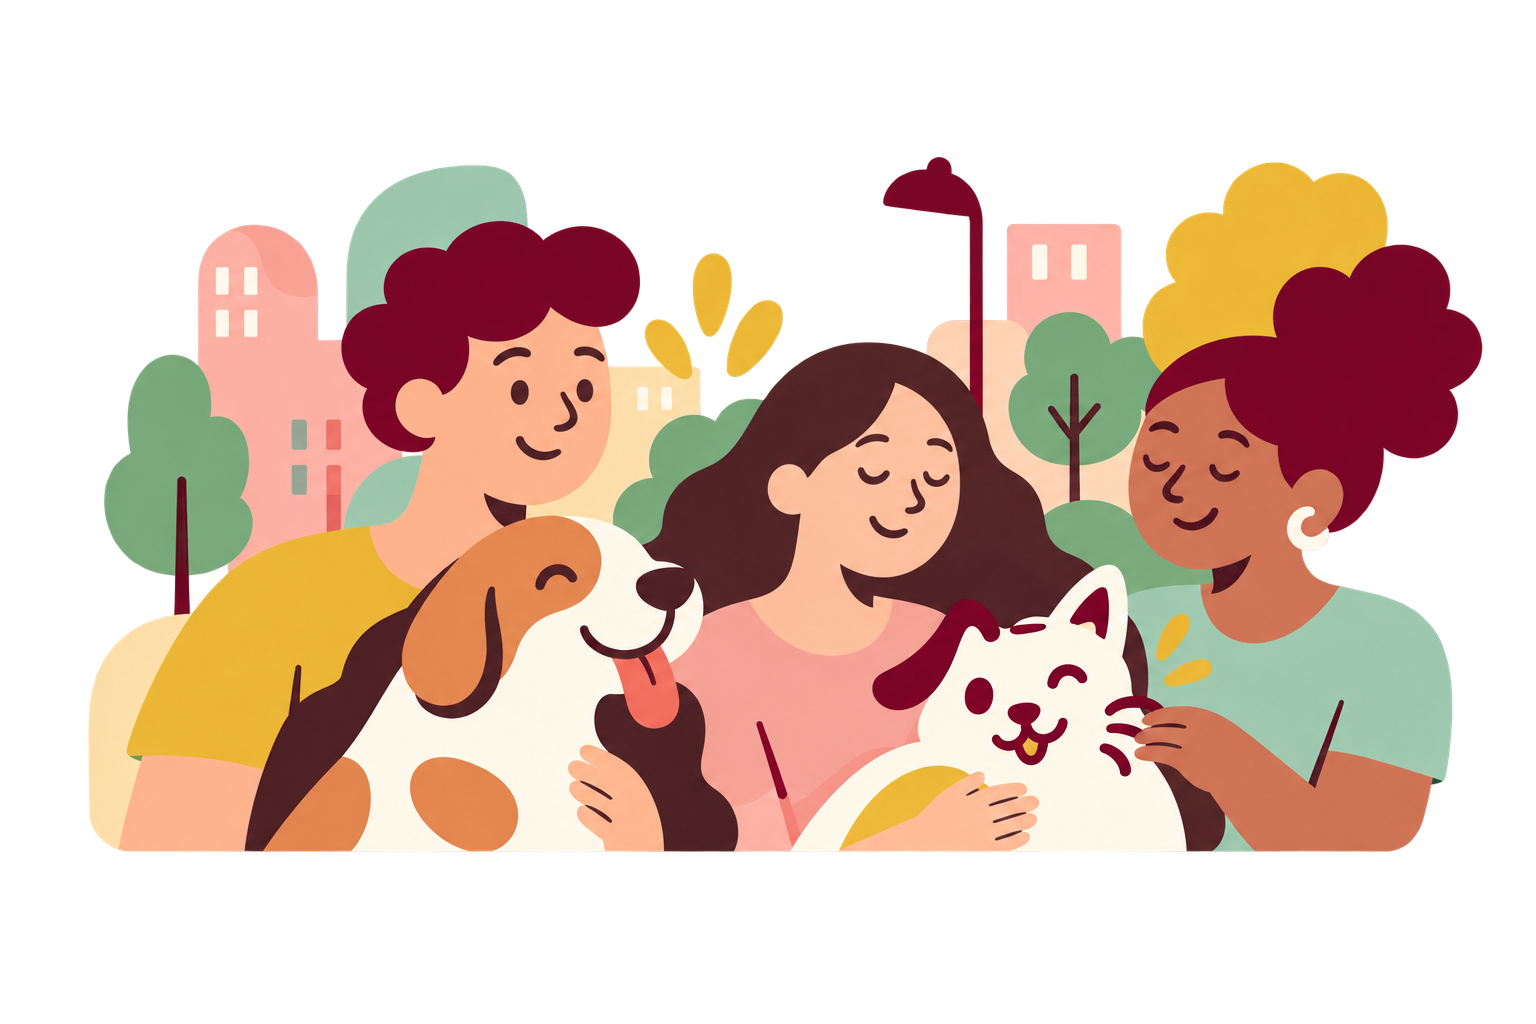
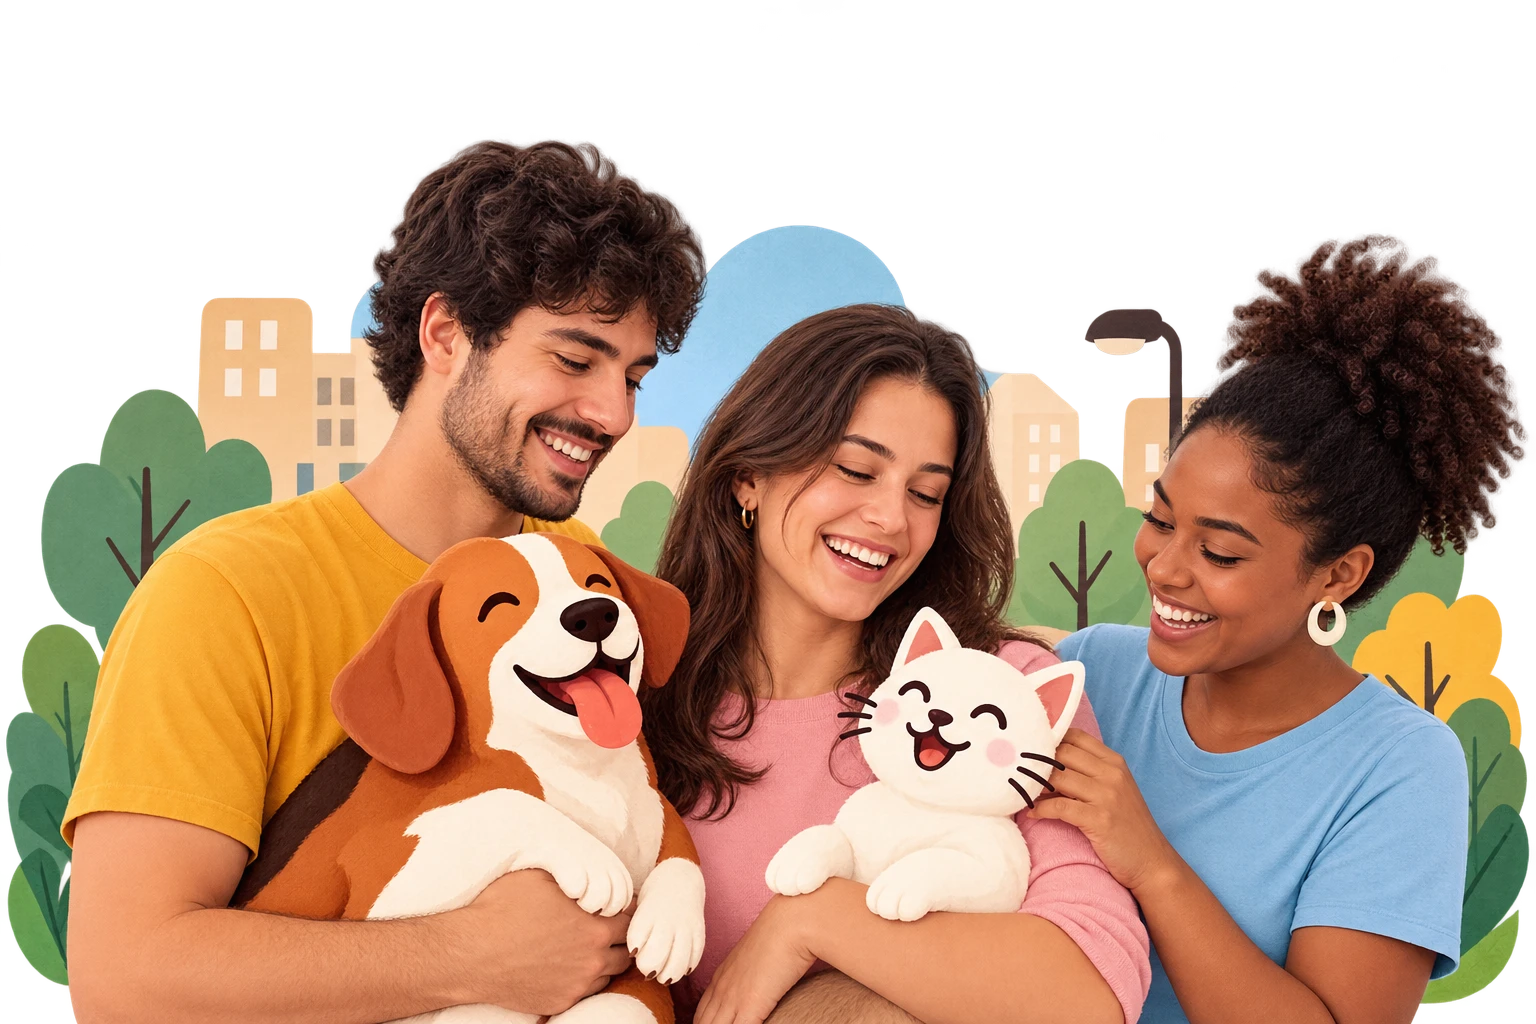
Ilustracoes humanizadas no app e no site (pedido do cliente, 06/11/2026)
O cliente pediu em 06/11: "vamos utilizar essas imagens mais humanizadas
do que animadas, inclusive substitua no proprio app tambem, alem de
utiliza-las no site". Sao duas pecas geradas para o Bichu, com pessoas
fotograficas e pets ilustrados sobre um parque de papel recortado.

QUAL FOI PARA ONDE, E POR ENQUADRAMENTO E NAO POR GOSTO

O site recorta e o app nao. A caixa do hero e 1360/740 (1,8378) com
object-fit cover: ela come 188 px de 1024, 18,4% da altura, e nao ha como
nao comer. A tela de entrar pinta com BoxFit.contain e largura cravada:
nao corta nada, so sobra transparente dos lados.

Entao a peca que tolera corte vai para o site e a que nao tolera vai para
o app. Medido:

  referencia-1 (tres em pe, cao e gato)  margem transparente em cima: 142 px
  referencia-2 (tres sentados, husky)    margem transparente: 10 px em cima,
                                         11 px embaixo

Com 188 px a cortar, a referencia-1 absorve 142 deles em margem vazia e
perde 46 px de conteudo; a referencia-2 perde 167 px de conteudo em
QUALQUER posicao -- alinhada em cima ela parte o gato laranja ao meio,
alinhada embaixo ela corta a testa da mulher que esta de pe. Por isso:

  site -> referencia-1       app -> referencia-2

O QUE MUDOU EM CADA LUGAR

web/src/assets/ilustracoes/ilustracao-tres-pessoas.png
  1536x1024, PNG de 24 bits com alfa, sem um byte alterado da arte.
  1.079.729 -> 2.255.410 B no repositorio. O que o navegador baixa muda
[…]

diff --git a/web/src/styles/institucional.css b/web/src/styles/institucional.css
@@ -156,8 +156,34 @@ main > .secao--comunidade:last-child { padding-bottom: calc(var(--space-16) * 1.
 .hero--sem-ilustracao { grid-template-columns: minmax(0, 1fr); padding-bottom: var(--space-10); }
 
 .recorte { display: block; width: 100%; height: auto; object-fit: cover; }
+/* A ilustracao de tres pessoas e 3:2 (1536x1024) e SANGRA ate a borda: ao
+   contrario da arte anterior, que era um cartao arredondado boiando numa
+   margem transparente larga, esta nao tem folga de sobra. A caixa e 1360/740
+   (1,8378), entao o `cover` come 188 px de 1024 -- 18,4% da altura -- e so o
+   `object-position` decide de onde. Os dois numeros abaixo sao medidos, nao
+   escolhidos no olho:
+
+   - X = 50%: nao ha recorte horizontal nenhum. A imagem e mais ESTREITA que a
+     caixa (1,5 < 1,8378), entao o `cover` escala pela largura e usa os 1536 px
+     inteiros. Qualquer valor de X daria o mesmo quadro; 50% e o que nao mente.
+   - Y = 55%: e o MAIOR valor que ainda nao perde conteudo. A arte tem 142 px
+     de margem transparente em cima (caixa opaca em y 142..1023); com Y = 55%
+     o corte de cima e 103 px, ou seja, cai inteiro dentro dessa margem, e
+     sobram 85 px cortados embaixo (as patas dianteiras do cao). De 57% para
+     cima a MASCARA passa a comer o cabelo da mulher da direita -- medido: a
+     faixa de pixels opacos que a mascara apaga pula de "y 551-739" para
+     "y 31-739". Subir este numero decepa cabeca.
+
+   A MASCARA MUDOU DE PAPEL AQUI. Com a arte antiga ela era quase decorativa:
+   o desenho ja vinha com borda arredondada propria e nao encostava nos cantos,
+   entao o blob recortava transparencia. Com esta arte, que sangra, a mascara
+   passa a cortar imagem de verdade -- 34.180 px opacos, 3,4% da caixa, todos
+   nos DOIS CANTOS DE BAIXO (camiseta e folhagem). Ela fica porque e ela que
+   mantem o hero na linguagem de papel recortado do site; se um dia a decisao
+   for deixar a arte inteira, o caminho e `aspect-ratio: 3 / 2` (sem corte) e
+   nao afrouxar o `object-position`. */
 .recorte--tres-pessoas {
-  aspect-ratio: 1360 / 740; object-position: 54.5% 42.3%;
+  aspect-ratio: 1360 / 740; object-position: 50% 55%;
   mask: url("../assets/formas/recorte-tres-pessoas.svg") center / 100% 100% no-repeat;
 }
 .recorte--encontro {
